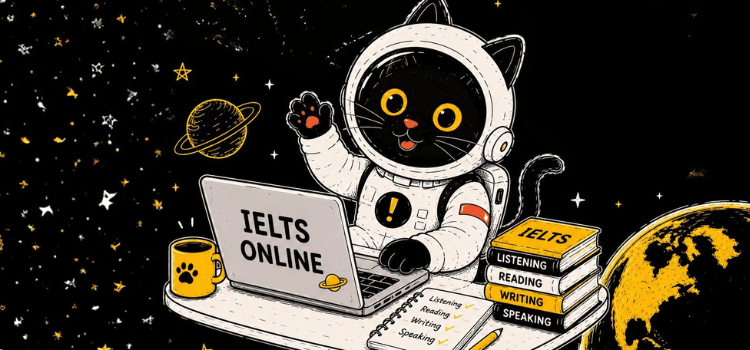
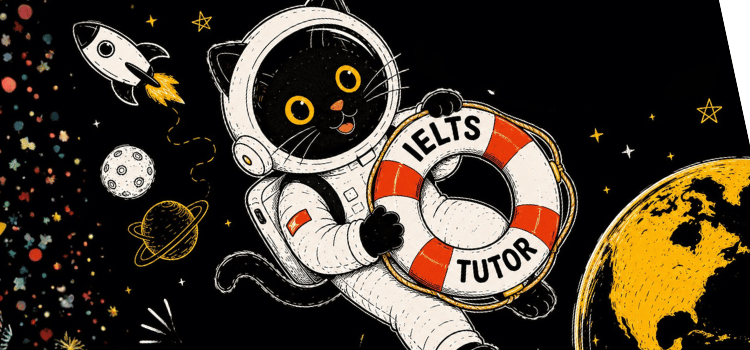
thay ảnh cho đúng

diff --git a/index.html b/index.html
@@ -285,13 +285,13 @@ footer p:last-child{color:rgba(255,255,255,.4);font-size:12px;}
 	
 
 <div class="feature-card fade-in">
-  <img src="images/H2.png" alt="Lộ trình học rõ ràng" onerror="this.style.display='none'"/>
+  <img src="images/H1.png" alt="Lộ trình học rõ ràng" onerror="this.style.display='none'"/>
   <h3>Lộ trình xịn – học phí hợp lý</h3>
   <p>Không học lan man, không “đốt tiền” vô ích. Lộ trình Foundation → Pre → Intensive → Drill được thiết kế rõ ràng theo mục tiêu band điểm. Học nhóm nhỏ, tối ưu chi phí (chỉ ~100k/h học) nhưng vẫn được theo sát.</p>
 </div>
 
 <div class="feature-card fade-in">
-  <img src="images/H1.png" alt="Học IELTS không chán" onerror="this.style.display='none'"/>
+  <img src="images/H2.png" alt="Học IELTS không chán" onerror="this.style.display='none'"/>
   <h3>Lớp học năng động - Cam kết đồng hành tới mục tiêu</h3>
   <p>Lớp học đầy hoạt động tương tác, mini game và practice thực chiến giúp bạn nhớ bài siêu lâu, phản xạ tiếng Anh mượt hơn mỗi ngày. Học vui nhưng điểm vẫn tăng ầm ầm.</p>
 </div>
@@ -360,7 +360,7 @@ footer p:last-child{color:rgba(255,255,255,.4);font-size:12px;}
       </div>
 
       <div class="course-card fade-in" onclick="openPopup('online')">
-        <img src="images/pre2.png" alt="Online" onerror="this.style.display='none'"/>
+        <img src="images/online2.png" alt="Online" onerror="this.style.display='none'"/>
         <p>Khóa chuyên biệt: <b>Học trực tuyến</b></p>
         <p style="font-style:italic">Không cần chạy xe, vẫn chạy band</p>
         <button class="btn-detail">IELTS ONLINE</button>